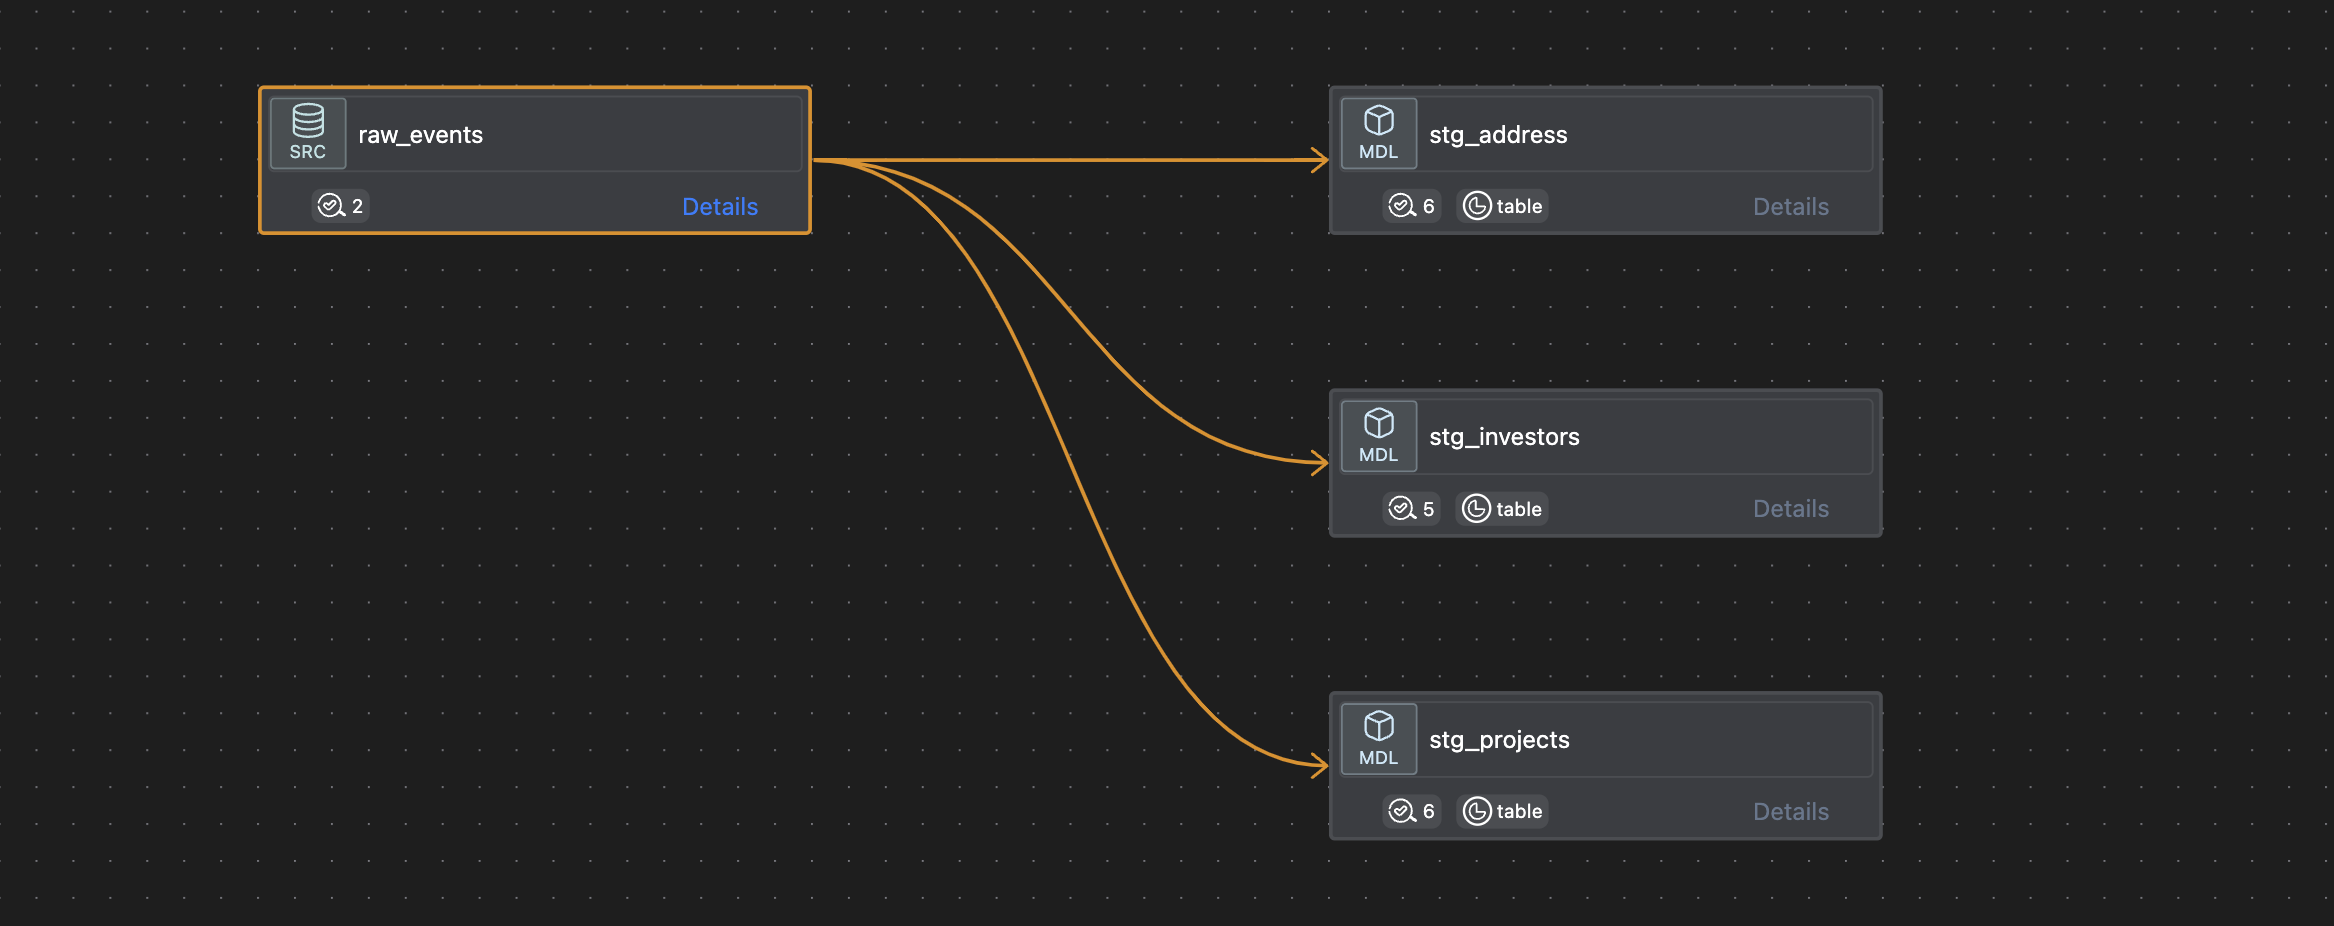
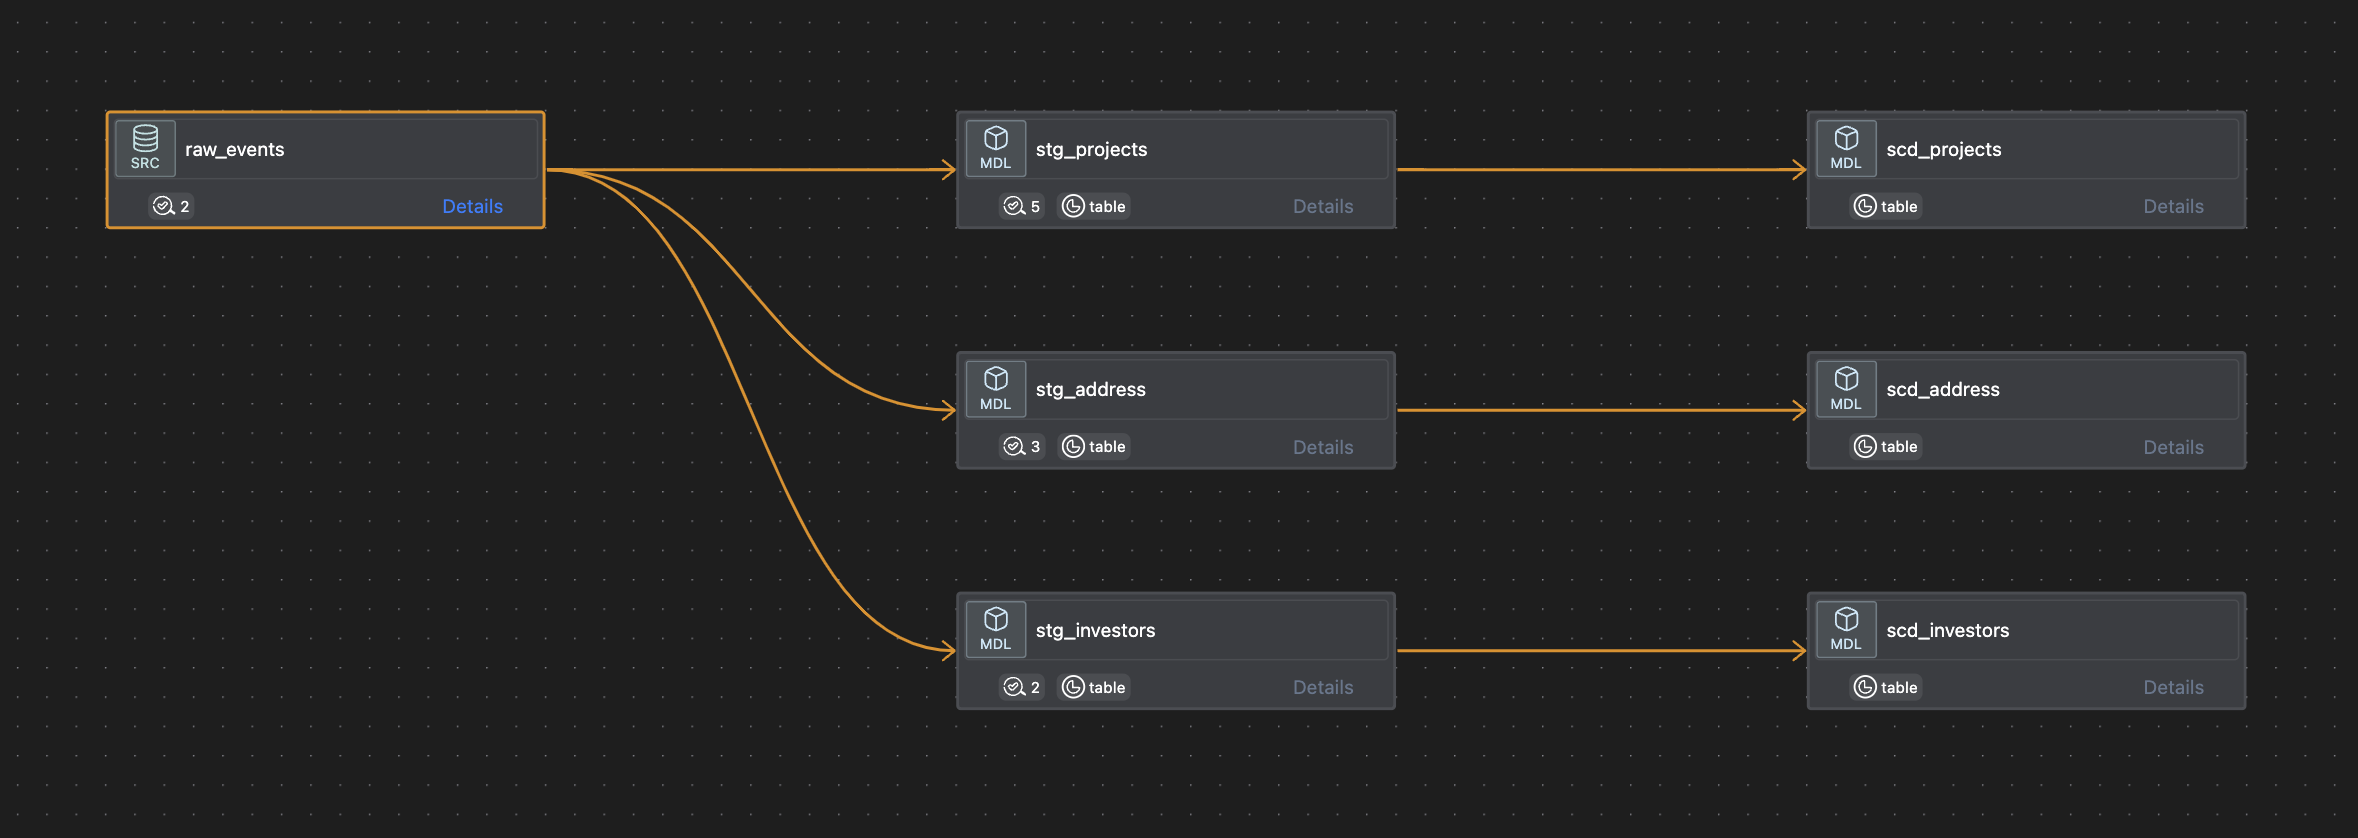
mise à jour de readme

diff --git a/README.md b/README.md
@@ -16,14 +16,13 @@ Les tables cibles sont :
 
 ## Architecture du pipeline
 
-Le pipeline est structuré selon les bonnes pratiques analytics engineering : **RAW → STAGING → SNAPSHOTS → CURATION**.
+Le pipeline est structuré selon les bonnes pratiques analytics engineering : **RAW → STAGING → CURATION**.
 
 ### Flux global
 
 1. Ingestion des fichiers JSON dans Snowflake (RAW)
 2. Normalisation et nettoyage avec dbt (STAGING)
-3. Historisation SCD2 via dbt snapshots (SNAPSHOTS)
-4. Tables métier prêtes pour l’analyse (CURATION)
+3. Historisation SCD2 via un code sql (CURATION)
 
 ---
 
@@ -34,7 +33,7 @@ Le graphique ci-dessous illustre le lineage complet des données depuis la table
 Il permet de visualiser :
 
 * les dépendances entre les modèles dbt
-* le passage par les snapshots SCD2
+* le passage par du code SQL pour organiser les données au format SCD2
 * les relations entre projets, adresses et investisseurs
 
 ![Data Lineage](docs/lineage.png)
@@ -74,70 +73,20 @@ Objectifs du staging :
 
 * Extraire les champs JSON
 * Aplatir les structures imbriquées (`investors`)
-* Conserver uniquement l’état le plus récent par entité
 
-### Modèles
+### Modèles de staging
 
 * `stg_projects`
 * `stg_address`
 * `stg_investors`
 
-### Principes clés
 
-* Utilisation de `ROW_NUMBER()` partitionné par clés métier
-* Sélection du dernier événement via `event_timestamp`
-* Préparation des clés pour le SCD2
 
----
+### Modèles curation (historisées pour organiser les données aux format SCD2)
 
-## 3. Snapshots SCD2
-
-Schéma : `snapshots`
-
-Les snapshots permettent de conserver l’historique des changements métier dans le temps.
-
-### Stratégie utilisée
-
-* `strategy='check'`
-* `check_cols=['hash_value']`
-
-### Tables historisées
-
-* `snap_projects`
-* `snap_address`
-* `snap_investors`
-
-Chaque snapshot conserve :
-
-* `DBT_VALID_FROM`
-* `DBT_VALID_TO`
-
-Chaque modification métier crée une **nouvelle version de la ligne**.
-
----
-
-## 4. Curation (tables finales)
-
-Schéma : `curation`
-
-Ces tables représentent **l’état actif courant** des données.
-
-### Principe
-
-```sql
-WHERE DBT_VALID_TO IS NULL
-```
-
-### Tables exposées
-
-* `projects`
-* `address`
-* `investors`
-
-Relations métier :
-
-* Un **project HAS one address**
-* Un **project INCLUDES many investors**
+* `scd_projects`
+* `scd_address`
+* `scd_investors`
 
 ---
 
@@ -149,7 +98,6 @@ Les tests dbt garantissent la fiabilité du pipeline.
 
 * `not_null`
 * `unique`
-* `accepted_values`
 * `relationships`
 
 ### Exemple
@@ -169,16 +117,6 @@ Les tests dbt garantissent la fiabilité du pipeline.
 * La sortie d’un investisseur est détectée via :
 
   * `invested = 0`
-  * ou un flag `is_active`
-
----
-
-## Améliorations possibles
-
-* Générer un `address_id` basé sur `(project + entity + hash(address))`
-* Ajouter une colonne `hash` pour optimiser la détection de changements SCD2
-* Implémenter des tests de fraîcheur (`dbt_date`)
-* Ajouter des métriques d’exposition par projet
 
 ---
 
@@ -208,8 +146,6 @@ dbt docs generate && dbt docs serve
 * **GitHub** – Versioning et partage
 
 ---
-
-## Auteur
 
 Projet réalisé dans le cadre d’un exercice d’analytics engineering visant à démontrer :
 
